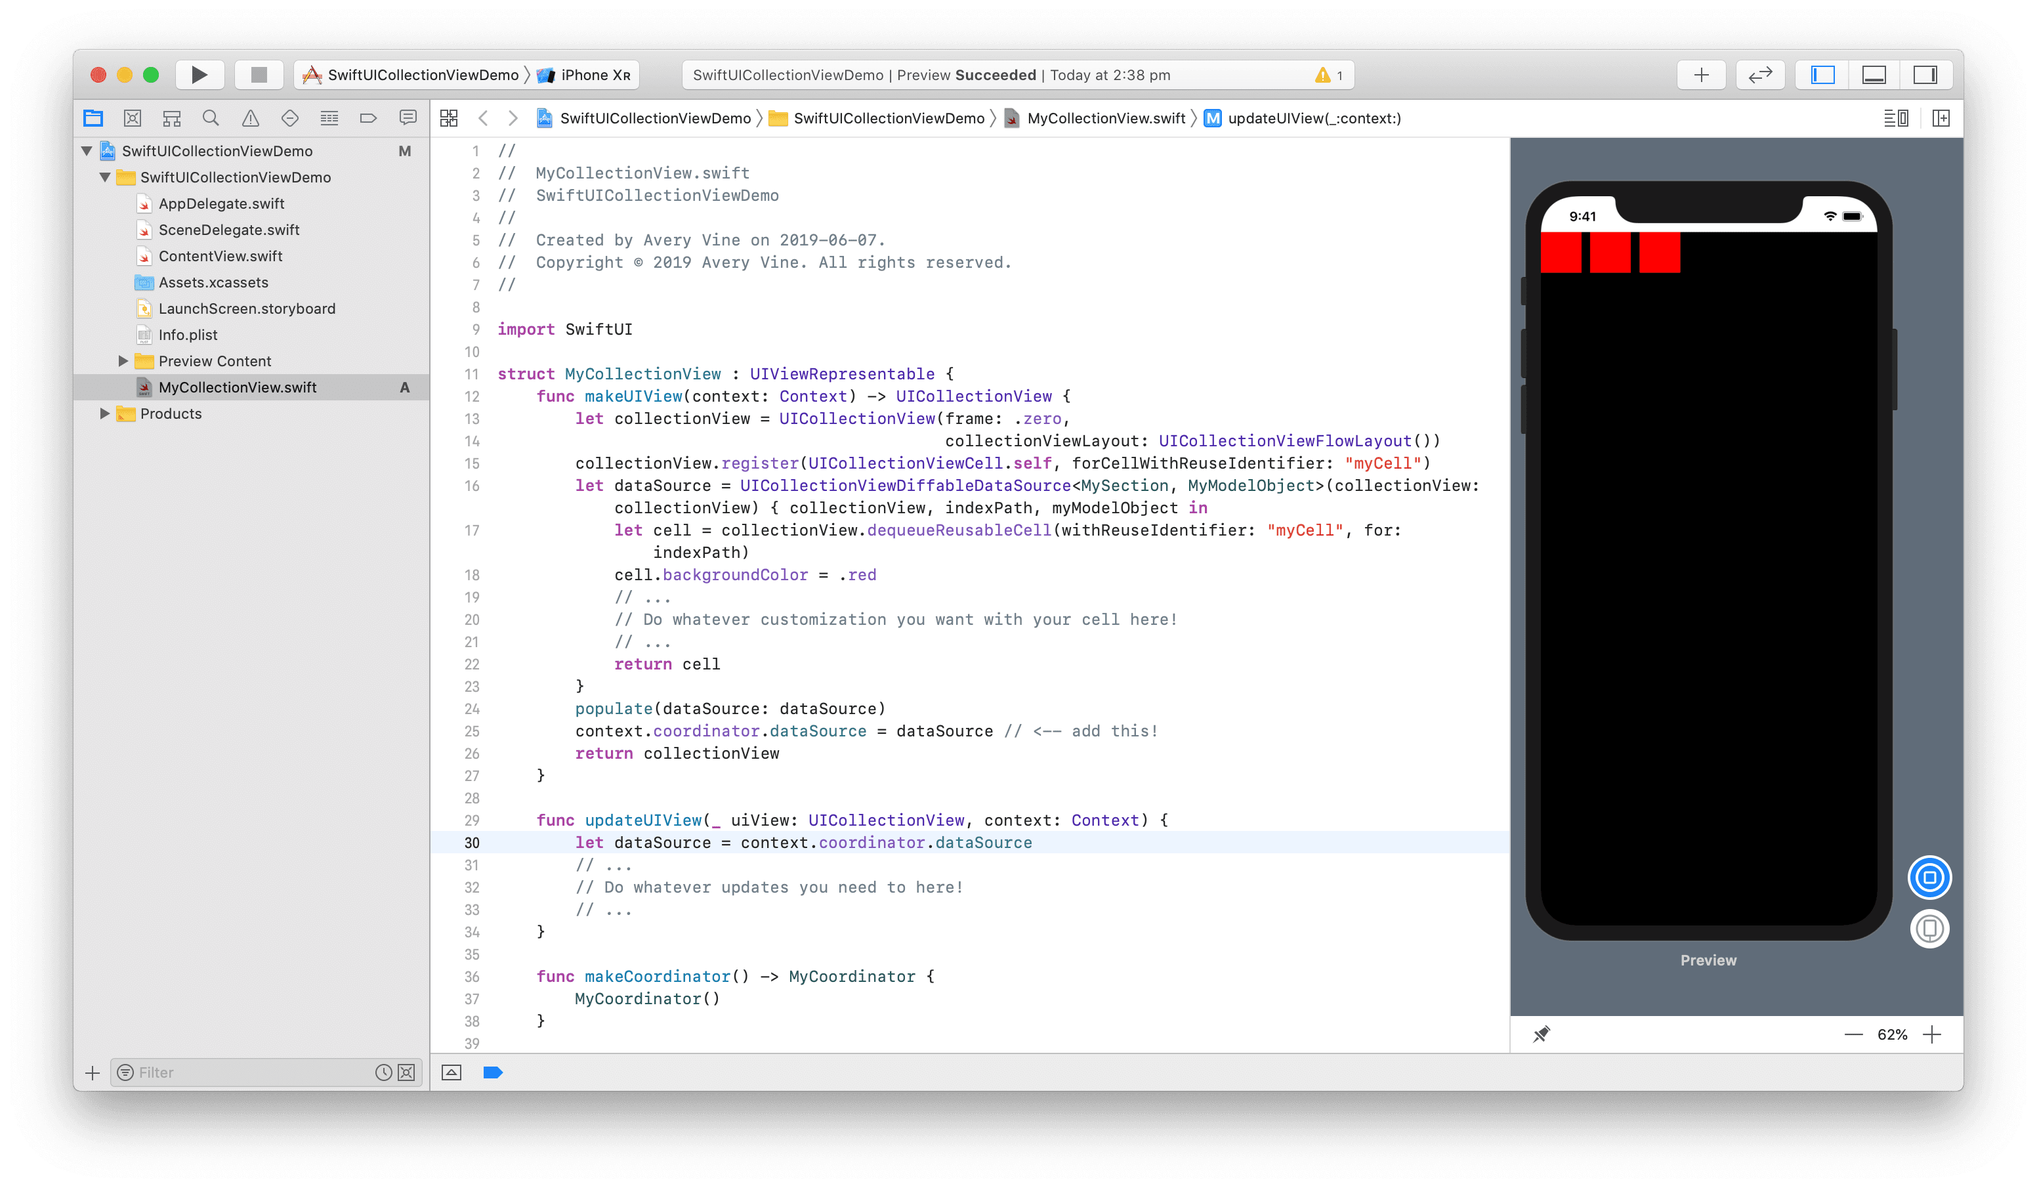
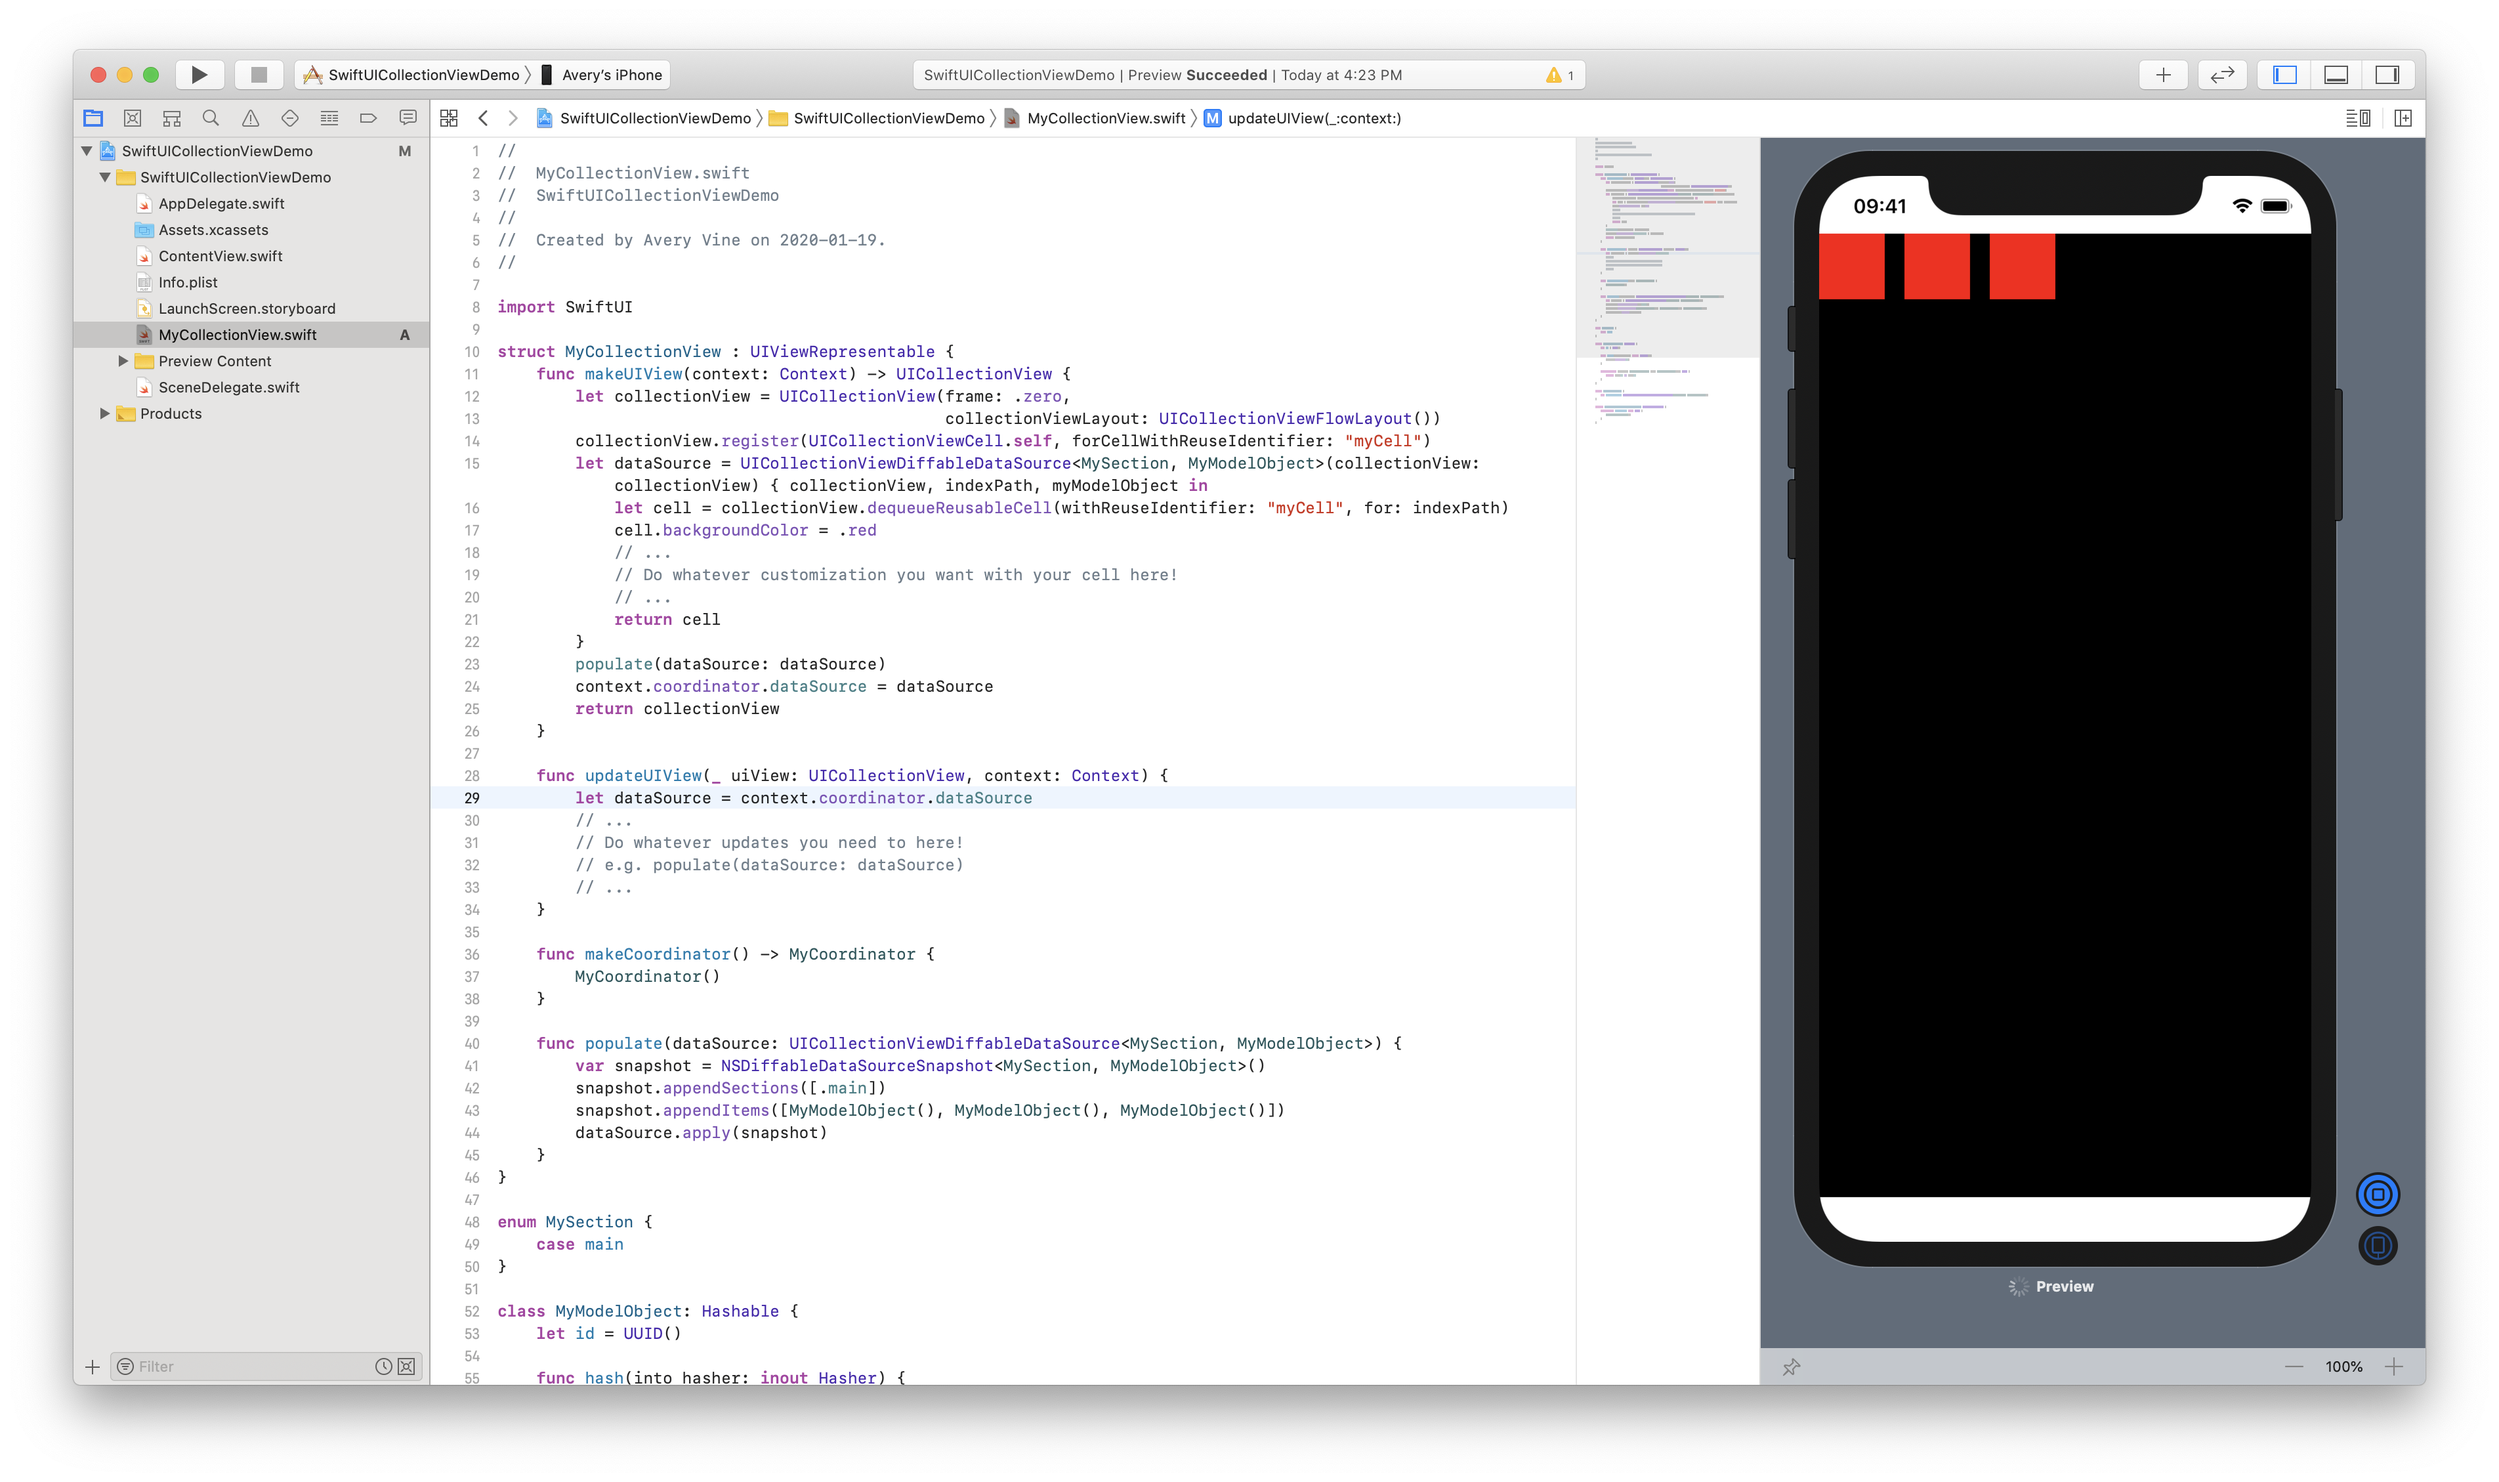
updated swiftui uicollectionview blog post with code file, updated screenshots, adjustements for official release

Changed region(s): [[0.0312, 0.0309, 0.9688, 0.9591], [0.375, 0.8044, 0.4375, 0.8354], [0.375, 0.1856, 0.4375, 0.2166]]

diff --git a/public/_blog/assets/uicollectionview-and-uicollectionviewdiffabledatasource-in-swiftui/MyCollectionView.swift b/public/_blog/assets/uicollectionview-and-uicollectionviewdiffabledatasource-in-swiftui/MyCollectionView.swift
@@ -1,0 +1,72 @@
+//
+//  MyCollectionView.swift
+//  SwiftUICollectionViewDemo
+//
+//  Created by Avery Vine on 2020-01-19.
+//
+
+import SwiftUI
+
+struct MyCollectionView : UIViewRepresentable {
+    func makeUIView(context: Context) -> UICollectionView {
+        let collectionView = UICollectionView(frame: .zero,
+                                              collectionViewLayout: UICollectionViewFlowLayout())
+        collectionView.register(UICollectionViewCell.self, forCellWithReuseIdentifier: "myCell")
+        let dataSource = UICollectionViewDiffableDataSource<MySection, MyModelObject>(collectionView: collectionView) { collectionView, indexPath, myModelObject in
+            let cell = collectionView.dequeueReusableCell(withReuseIdentifier: "myCell", for: indexPath)
+            cell.backgroundColor = .red
+            // ...
+            // Do whatever customization you want with your cell here!
+            // ...
+            return cell
+        }
+        populate(dataSource: dataSource)
+        context.coordinator.dataSource = dataSource
+        return collectionView
+    }
+
+    func updateUIView(_ uiView: UICollectionView, context: Context) {
+        let dataSource = context.coordinator.dataSource
+        // ...
+        // Do whatever updates you need to here!
+        // e.g. populate(dataSource: dataSource)
+        // ...
+    }
+    
+    func makeCoordinator() -> MyCoordinator {
+        MyCoordinator()
+    }
+
+    func populate(dataSource: UICollectionViewDiffableDataSource<MySection, MyModelObject>) {
+        var snapshot = NSDiffableDataSourceSnapshot<MySection, MyModelObject>()
+        snapshot.appendSections([.main])
+        snapshot.appendItems([MyModelObject(), MyModelObject(), MyModelObject()])
+        dataSource.apply(snapshot)
+    }
+}
+
+enum MySection {
+    case main
+}
+
+class MyModelObject: Hashable {
+    let id = UUID()
+
+    func hash(into hasher: inout Hasher) {
+        hasher.combine(id)
+    }
+
+    static func == (lhs: MyModelObject, rhs: MyModelObject) -> Bool {
+        return lhs.id == rhs.id
+    }
+}
+
+class MyCoordinator {
+    var dataSource: UICollectionViewDiffableDataSource<MySection, MyModelObject>?
+}
+
+struct MyCollectionView_Previews: PreviewProvider {
+    static var previews: some View {
+        MyCollectionView()
+    }
+}

diff --git a/public/_blog/_posts/2019-06-07-uicollectionview-and-uicollectionviewdiffabledatasource-in-swiftui.md b/public/_blog/_posts/2019-06-07-uicollectionview-and-uicollectionviewdiffabledatasource-in-swiftui.md
@@ -29,7 +29,7 @@ struct MyCollectionView : View {
 
 We're going to replace the protocol that `MyCollectionView` conforms to with `UIViewRepresentable`. This protocol requires us to implement the functions `makeUIView` and `updateUIView`, so lets do that. You can start typing their names and Xcode autocomplete will take care of the rest. You'll want to adjust the return of the `makeUIView` function to be a `UICollectionView`, as well as the first parameter of `updateUIView`. Finally, fill in the body of `makeUIView` to return a `UICollectionView`.
 
-> Fun fact: as of beta 1, auto-completing the `makeUIView` and `updateUIView` functions of the `UIViewRepresentable` protocol for our UICollectionView will generate a parameter with the type `UIViewRepresentableContext<MyCollectionView>`. This type can be replaced with `Context` for readability!
+> Fun fact: auto-completing the `makeUIView` and `updateUIView` functions of the `UIViewRepresentable` protocol for our UICollectionView will generate a parameter with the type `UIViewRepresentableContext<MyCollectionView>`. This type can be replaced with `Context` for readability!
 
 Once you've done all that, you should end up with something like the code below.
 
@@ -92,7 +92,7 @@ struct MyCollectionView : UIViewRepresentable {
     }
 
     func populate(dataSource: UICollectionViewDiffableDataSource<MySection, MyModelObject>) {
-        let snapshot = NSDiffableDataSourceSnapshot<MySection, MyModelObject>()
+        var snapshot = NSDiffableDataSourceSnapshot<MySection, MyModelObject>()
         snapshot.appendSections([.main])
         snapshot.appendItems([MyModelObject(), MyModelObject(), MyModelObject()])
         dataSource.apply(snapshot)
@@ -139,6 +139,7 @@ func updateUIView(_ uiView: UICollectionView, context: Context) {
     let dataSource = context.coordinator.dataSource
     // ...
     // Do whatever updates you need to here!
+    // e.g. populate(dataSource: dataSource)
     // ...
 }
 ```
@@ -150,5 +151,7 @@ Resume the preview on the right side, and you should see red cells!
 ## Wrap Up
 
 SwiftUI has an incredible amount of potential, and while it doesn't yet intrinsically support `UICollectionView` and the new `UICollectionViewDiffableDataSource`, we can quite easily create a wrapper around our collection to take advantage of this awesome new API.
+
+If you've made it this far, and want to download a version of the code, you can grab it [here]({{ "assets/uicollectionview-and-uicollectionviewdiffabledatasource-in-swiftui/MyCollectionView.swift" | absolute_url }}).
 
 What do you think of SwiftUI? Leave your comments below!
